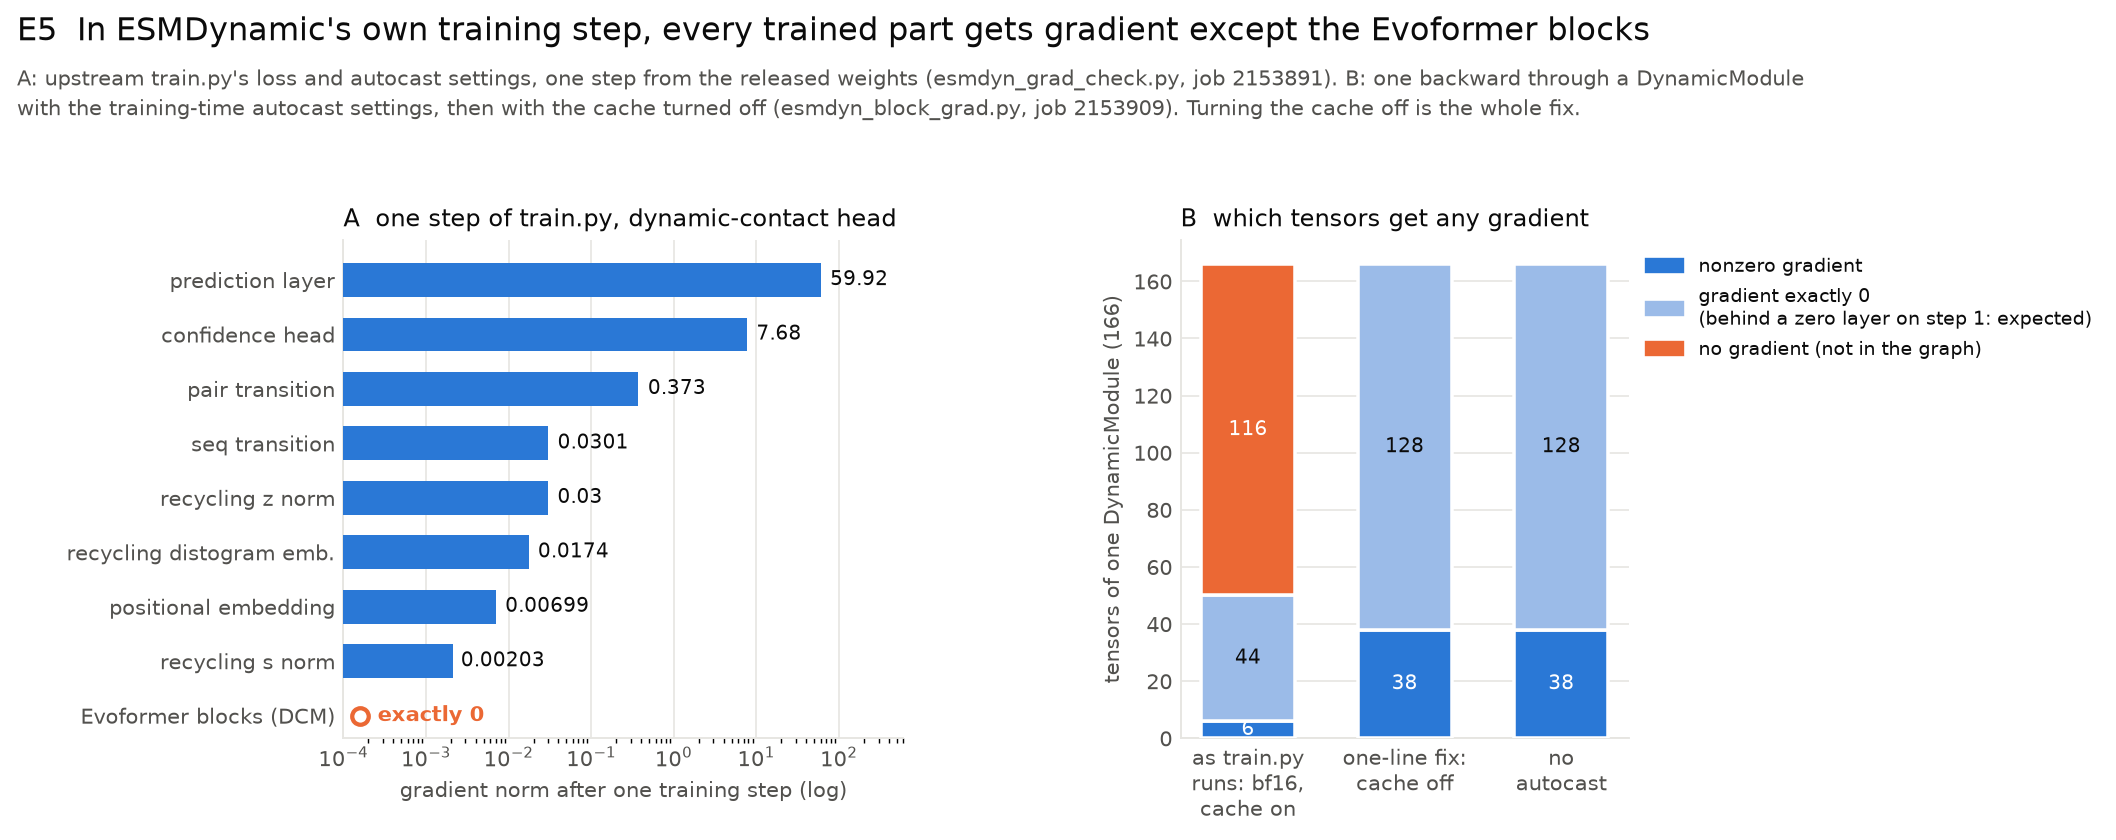
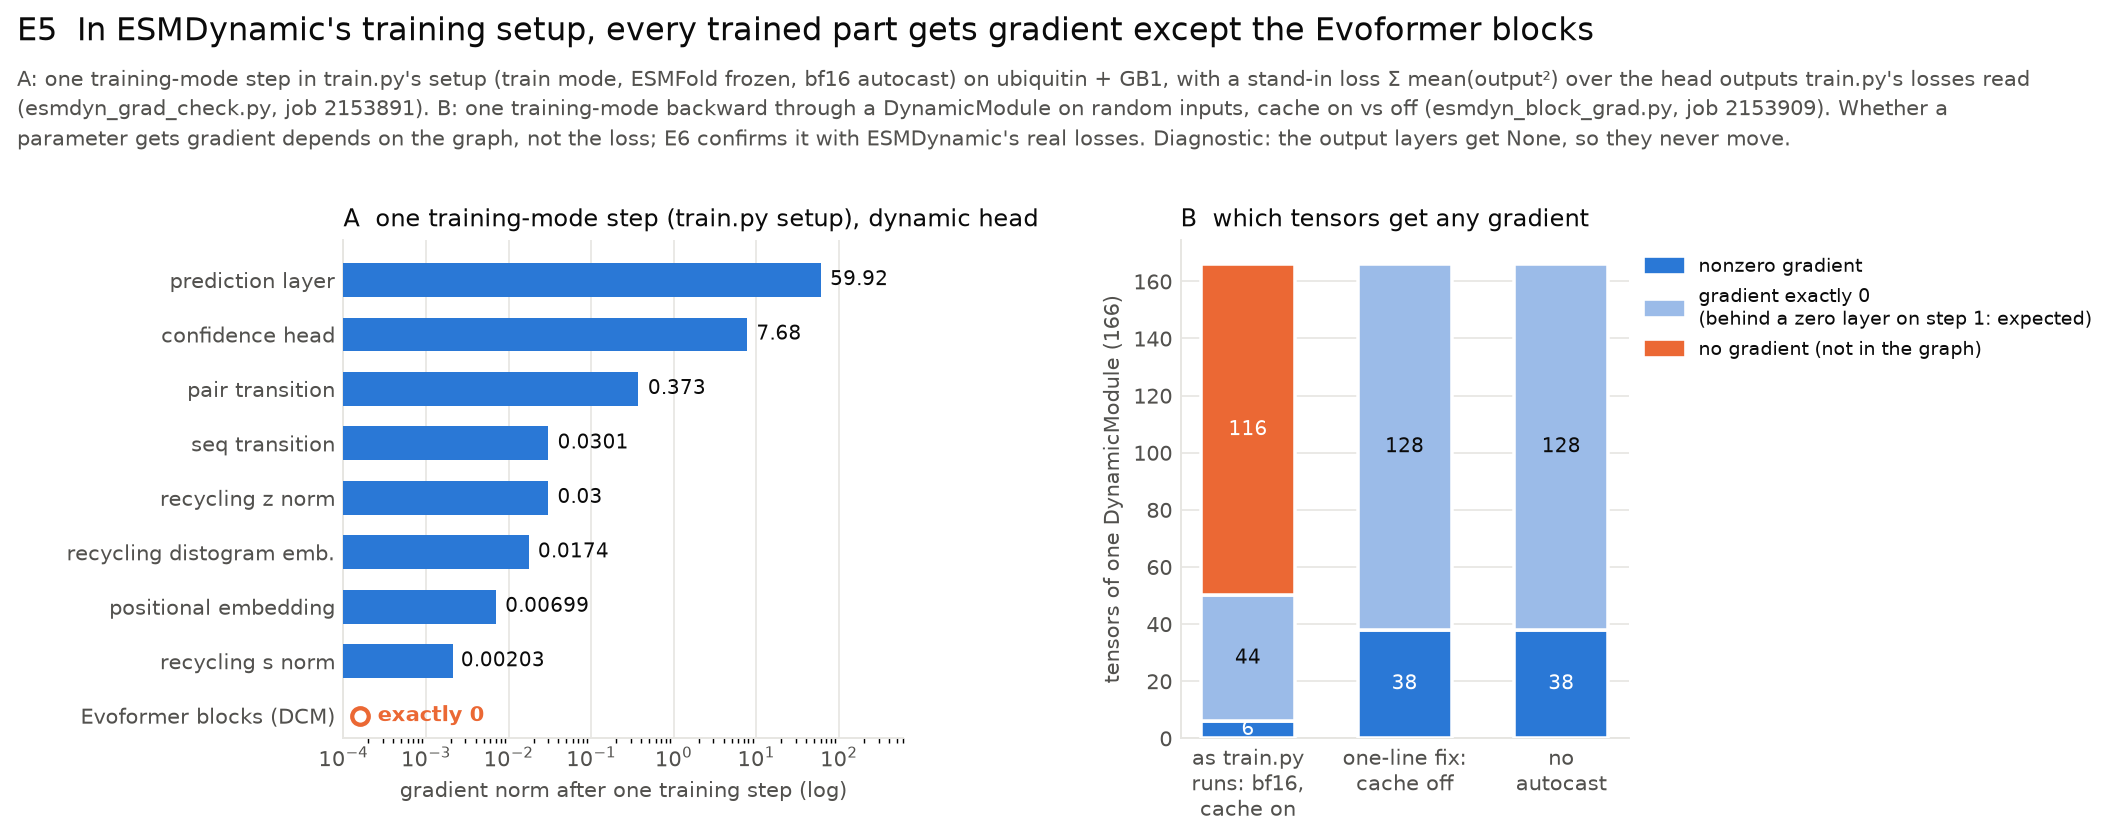
EVIDENCE: correct E1/E5/E6 wording
E5 used a stand-in loss in train.py's training setup, not train.py's loss; it is one
step, and the diagnostic part is the output layers' None gradient. E6 trains on the
authors' training split, so it shows better fit, not better accuracy. E1: the
occupancy head's per-residue path is also untouched (no route to any loss once the
blocks are dead).

Changed region(s): [[0.0, 0.0, 0.9669, 0.1857], [0.1871, 0.2476, 0.4991, 0.2786]]

diff --git a/investigation/scripts/plot_evidence.py b/investigation/scripts/plot_evidence.py
@@ -96,7 +96,7 @@ def e1(plt, out):
     ax.legend(loc="lower right", frameon=False, fontsize=8.6, labelcolor=INK)
     titled(fig, "E1  Every Evoformer-block tensor in both released weight files is at its initial value",
            "Each tensor tested against its initialiser: LayerNorm weights exactly 1, zero-initialised layers exactly 0, "
-           "the rest matching their random initialiser's statistics.\nEverything outside the blocks was trained. "
+           "the rest matching their random initialiser's statistics.\nOutside the blocks, only the occupancy head's per-residue path is untouched (it reaches no loss once the blocks are dead). "
            "Source: dyn_models/scripts/diagnostics/esmdyn_checkpoint_audit.py on both Illinois Data Bank files.")
     save(fig, out, "E1_block_weights_at_init.png")
 
@@ -212,7 +212,7 @@ def e5(plt, out):
     a.set_yticklabels([g[0] for g in GRADS], fontsize=9, color=INK)
     a.set_xlabel("gradient norm after one training step (log)", color=INK_2, fontsize=8.8)
     style(a, "x")
-    a.set_title("A  one step of train.py, dynamic-contact head", loc="left", fontsize=10, color=INK)
+    a.set_title("A  one training-mode step (train.py setup), dynamic head", loc="left", fontsize=10, color=INK)
     x = np.arange(len(CENSUS))
     for i, (lab, nz, z, none) in enumerate(CENSUS):
         bottom = 0
@@ -233,10 +233,12 @@ def e5(plt, out):
                       Patch(color=ORANGE, label="no gradient (not in the graph)")],
              loc="upper left", bbox_to_anchor=(1.0, 1.0), frameon=False, fontsize=8, labelcolor=INK)
     fig.subplots_adjust(right=0.80)
-    titled(fig, "E5  In ESMDynamic's own training step, every trained part gets gradient except the Evoformer blocks",
-           "A: upstream train.py's loss and autocast settings, one step from the released weights (esmdyn_grad_check.py, "
-           "job 2153891). B: one backward through a DynamicModule\nwith the training-time autocast settings, then with "
-           "the cache turned off (esmdyn_block_grad.py, job 2153909). Turning the cache off is the whole fix.")
+    titled(fig, "E5  In ESMDynamic's training setup, every trained part gets gradient except the Evoformer blocks",
+           "A: one training-mode step in train.py's setup (train mode, ESMFold frozen, bf16 autocast) on ubiquitin + GB1, with a stand-in "
+           "loss Σ mean(output²) over the head outputs train.py's losses read\n(esmdyn_grad_check.py, job 2153891). B: one "
+           "training-mode backward through a DynamicModule on random inputs, cache on vs off (esmdyn_block_grad.py, job 2153909). "
+           "Whether a\nparameter gets gradient depends on the graph, not the loss; E6 confirms it with ESMDynamic's real losses. "
+           "Diagnostic: the output layers get None, so they never move.")
     save(fig, out, "E5_training_step_gradients.png")
 
 
@@ -271,9 +273,9 @@ def e6(plt, out):
     b.set_ylim(-260, 30)
     style(b)
     b.set_title("B  does the model fit better? (lower = better)", loc="left", fontsize=10, color=INK)
-    titled(fig, "E6  With the one-line fix the blocks train, and the training loss falls further",
-           "Two 500-step runs from the released V2 weights on mdCATH, identical except autocast(cache_enabled=…): same "
-           "samples, same crops, bit-identical first loss.\nHeld-out after 500 steps is mixed (balanced accuracy +2.6 "
+    titled(fig, "E6  With the one-line fix the blocks train, and the model fits its training data better",
+           "Two 500-step fine-tuning runs from the released V2 weights on the authors' mdCATH training split, identical except "
+           "autocast(cache_enabled=…): same samples, same crops,\nbit-identical first loss. Held-out after 500 steps is mixed (balanced accuracy +2.6 "
            "points, occupancy loss −7%, dynamic focal loss +5%); a real answer needs full retraining. Note 07, jobs 2157527/8.")
     save(fig, out, "E6_fix_trains_blocks.png")
 

diff --git a/investigation/EVIDENCE.md b/investigation/EVIDENCE.md
@@ -55,7 +55,9 @@ trained parts around the blocks. Source: `dyn_models/scripts/diagnostics/esmdyn_
 
 480 of 480 block tensors in V2 (2026-04), 160 of 160 in V1 (2025-06). LayerNorm weights
 are exactly 1, zero-initialised layers exactly 0, and the remaining matrices match their
-random initialiser's statistics. Every other component was trained. Source:
+random initialiser's statistics. Outside the blocks, everything trained except the occupancy
+head's per-residue path (its sequence transition and recycling s-norm), which reaches no
+loss once the blocks are dead (see the flowchart, `figures/gradient_flow/02_gradient_flowchart.png`). Source:
 `dyn_models/scripts/diagnostics/esmdyn_checkpoint_audit.py`.
 
 ### E2 · The blocks' output layers are exactly zero
@@ -84,13 +86,18 @@ autocast region with the default cache, the block gets no gradient at all; each 
 one-line fixes restores it. Same result with float16. Note 04,
 `scripts/minimal_autocast_repro.py`, torch 2.8.0 (the version the install instructions pin).
 
-### E5 · In ESMDynamic's own training step, only the blocks get no gradient
+### E5 · In ESMDynamic's training setup, only the blocks get no gradient
 
 ![E5](figures/evidence/E5_training_step_gradients.png)
 
-A: one step of upstream `train.py`'s loss from the released weights; every trained
-component gets gradient, the blocks exactly none. B: 116 of a DCM's 166 tensors are not in
-the autograd graph at all under the training settings; with the cache off, all are. Sources:
+A: one training-mode step in `train.py`'s setup (train mode, ESMFold frozen, bf16 autocast)
+from the released weights, on two real proteins (ubiquitin, GB1), with a stand-in loss
+(Σ mean(output²) over the head outputs `train.py`'s losses read): every trained component
+gets gradient, the blocks exactly none. Whether a parameter gets gradient depends on the
+graph, not on the loss; E6 confirms the result with ESMDynamic's real losses. This is one
+step, so the LayerNorms' zeros would be normal for a first step; what is diagnostic is that
+the output layers get no gradient at all, so they can never leave zero. B: one training-mode backward through a DCM on random inputs: 116 of its 166 tensors (every
+block Linear) are not in the autograd graph at all with the cache on; with it off, all are. Sources:
 `dyn_models/scripts/diagnostics/esmdyn_grad_check.py` (job 2153891), `esmdyn_block_grad.py`
 (job 2153909).
 
@@ -98,9 +105,11 @@ the autograd graph at all under the training settings; with the cache off, all a
 
 ![E6](figures/evidence/E6_fix_trains_blocks.png)
 
-Two 500-step fine-tuning runs from the released weights, identical (same samples, same
-crops, bit-identical first loss) except `cache_enabled`. As released, the blocks stay at
-0.000; fixed, their output layers grow to 26.3 and the training loss falls ~6% further.
+Two 500-step fine-tuning runs from the released weights on the authors' mdCATH training split
+(data the released heads were already trained on), identical (same samples, same crops,
+bit-identical first loss) except `cache_enabled`. As released, the blocks stay at
+0.000; fixed, their output layers grow to 26.3 and the model fits its training data ~6% better
+(training loss, paired by batch).
 The held-out effect of 500 steps is mixed (balanced accuracy +2.6 points, occupancy loss
 −7%, focal loss +5%), so whether trained blocks generalise better needs a proper
 retraining. Note 07.
